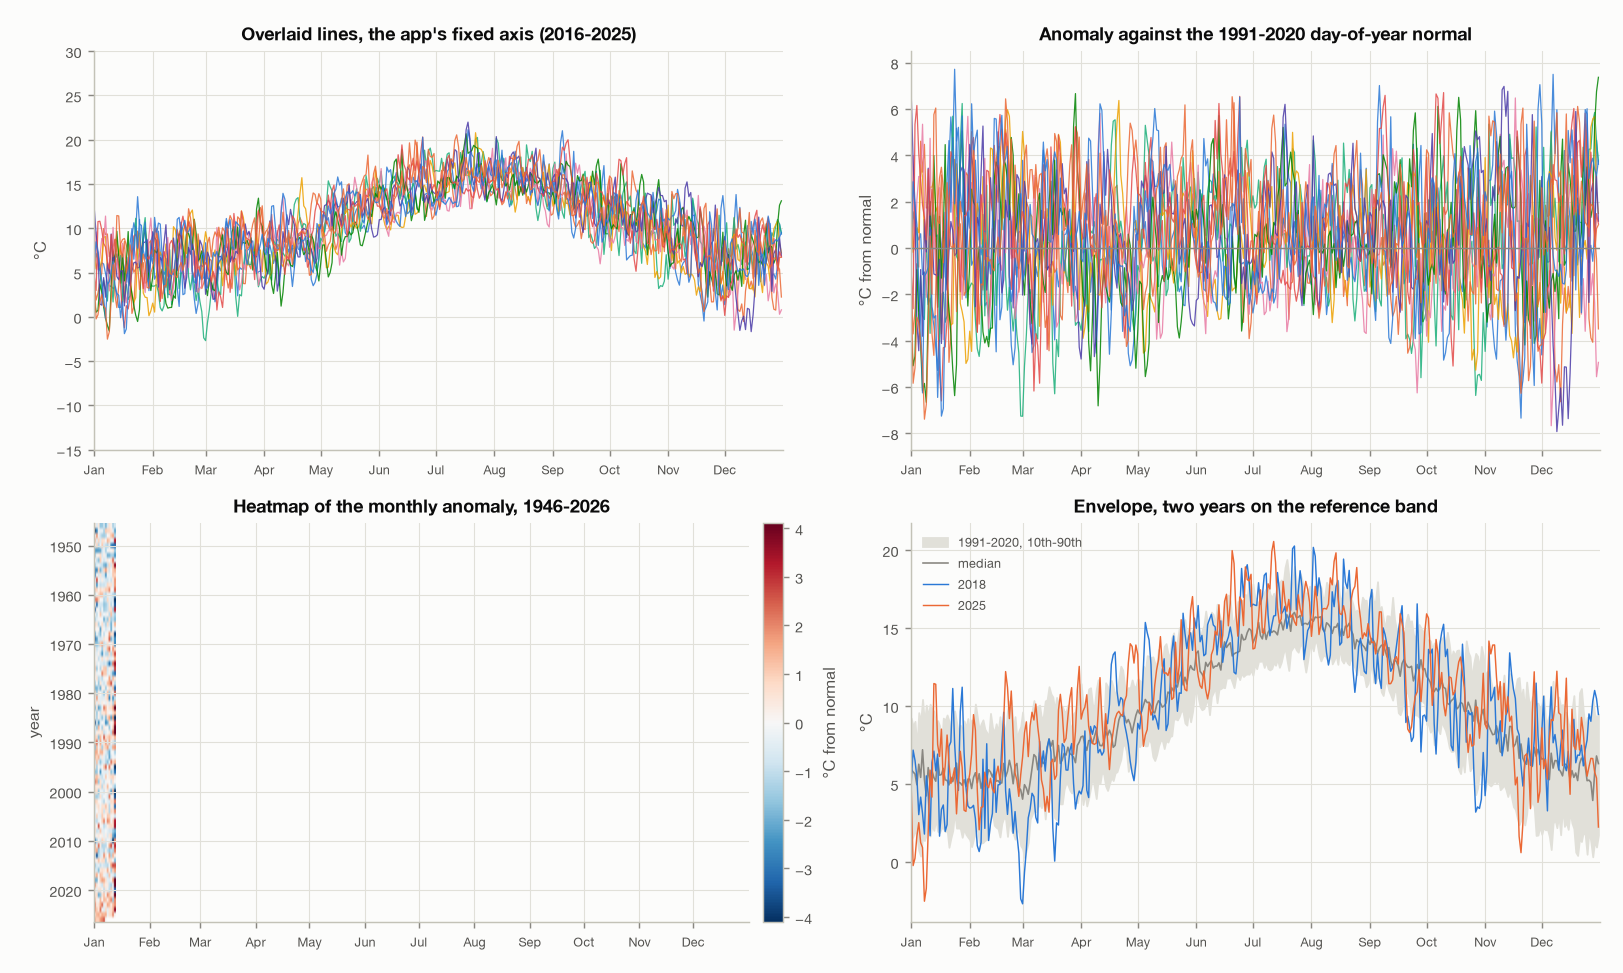
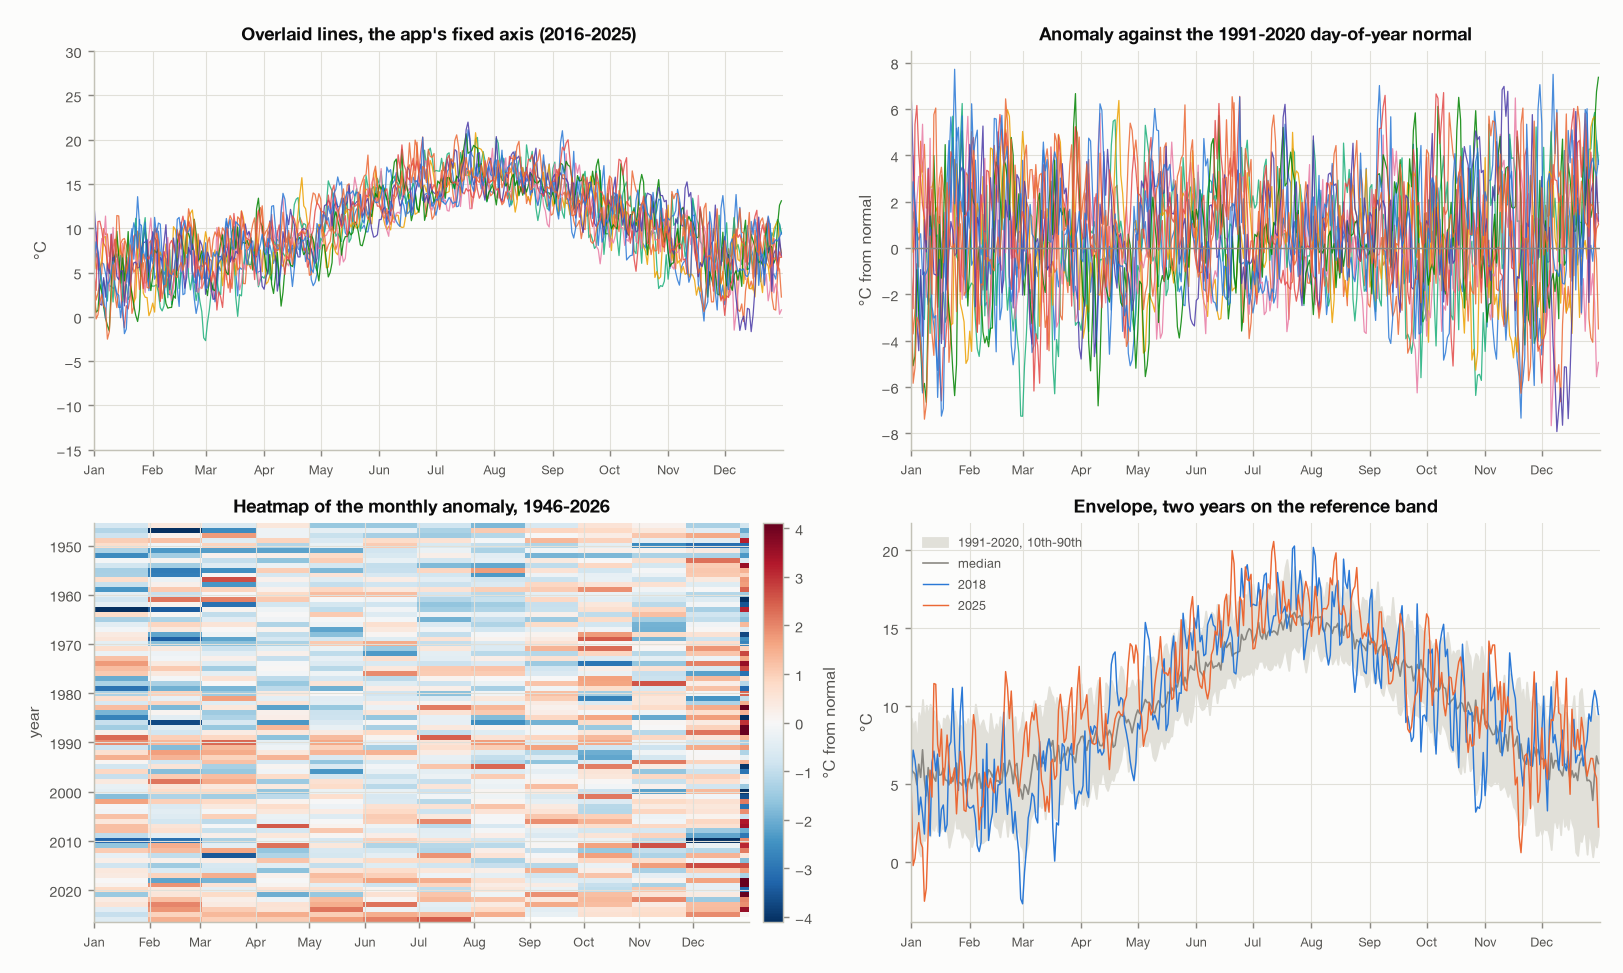
Sixth pass: the lead figure was broken and nobody had looked (20260912 20:48 UTC)
Two reviewers. One checked the fifth pass's fifteen fixes and found all
fifteen correct; its one hit was that RESUME.md still carried the framing
section 4 had just retired. The other read the document cold and opened
the figures, which no previous pass had done.

- The lead figure's heatmap panel drew eighty years into the first 3.5%
  of its width and left the rest blank. imshow got an extent in bucket
  indices, then a shared formatting loop set xlim to day-of-year on all
  four panels. Four passes cited this figure; none opened it.
- "Temperature has the second lowest swap rate of the seven. Every other
  variable tangles at least as much." Mean sea level pressure is lower,
  at 18.4% against 25.8%, so the second sentence contradicts the first
  using the numbers printed three lines above.
- "a resolution its own README tells people not to use for a wide
  selection." The README says daily to weekly is the useful range, so
  daily is the fine end of what it recommends. The generator's docstring
  quoted the README correctly and then drew the opposite conclusion in
  the same sentence.
- "Variables covered: all 13", as a plain structural fact, for three
  forms that cannot cover wind direction. It is circular, meta.json says
  so, and a day-of-year normal or a percentile band on degrees needs
  circular statistics nothing here implements. Now 12 of 13 for the
  anomaly, the heatmap and the envelope.
- The caption said four ways of drawing the same ten years; the panels
[…]

Changed region(s): [[0.0616, 0.5242, 0.4621, 0.9558]]

diff --git a/EDA/scripts/check_forms_numbers.py b/EDA/scripts/check_forms_numbers.py
@@ -27,9 +27,17 @@ review pass, which found three of them wrong at once - a "less than 0.2 points"
 that was 1.020 for sunshine, a "share of the area" that was 1/N rather than an
 area, and a spread that fell 32% and was written as 31%.
 
-Five adversarial review passes over this document have found numbers left stale
-by corrections applied in one place and not another, four separate times. That is
-the failure this exists to catch.
+Six adversarial review passes over this document have found numbers left stale by
+corrections applied in one place and not another, five separate times. That is the
+failure this exists to catch.
+
+What it cannot catch, stated so nobody reads a pass here as a clean bill: it reads
+CSVs and the markdown, never `src/`. Every claim the document makes about the app
+- that `VariableMeta` carries one range, that `axisFor` builds from two fields,
+that `AppState` has no mode, that `Series` has no band - is checked by hand or not
+at all. The same goes for the figures, whose axes it never looks at; the sixth
+pass found the lead figure had been drawing its heatmap panel into 3.5% of its
+width, and nothing here would have noticed.
 
 Run it after any edit to the document or to `eda_forms.py`.
 """
@@ -152,7 +160,13 @@ eq("band min", bw.iloc[0]["min_width_c"], 2.88)
 eq("band max", bw.iloc[0]["max_width_c"], 10.10)
 
 env = pd.read_csv(S / "04-envelope-escape.csv", index_col=0)
-for y, d, pct in ((2025, 96, 26.3), (2018, 93, 25.5), (2010, 119, 32.6), (1963, 101, 27.7)):
+doc_env = ((2025, 96, 26.3), (2018, 93, 25.5), (2010, 119, 32.6),
+           (1995, 102, 27.9), (1963, 101, 27.7))
+checks += 1
+if set(env.index) != {y for y, _, _ in doc_env}:
+    fails.append(f"envelope: CSV holds {sorted(env.index)}, the table prints "
+                 f"{sorted(y for y, _, _ in doc_env)}")
+for y, d, pct in (r for r in doc_env if r[0] in env.index):
     eq(f"envelope {y} days", env.loc[y, "days_outside_10_90"], d, 0.5)
     eq(f"envelope {y} pct", env.loc[y, "pct_outside"], pct, 0.05)
 
@@ -225,7 +239,33 @@ for k in ("temp", "rhum", "msl", "wdsp", "vis"):
     under(f"ties gap {k}", gap[k], 0.2)
 says("ties gap others in prose", "less than 0.2 points")
 
-res = pd.read_csv(S / "04-resolution.csv", index_col=0)
+# Ordinal claims. The prose ranks variables against each other and nothing
+# sorted anything, so "second lowest" was only ever true by inspection.
+order = var["pct_days_pair_swaps"].sort_values()
+checks += 1
+if list(order.index[:2]) != ["msl", "temp"]:
+    fails.append(f"swap order: doc says temp is second lowest after msl, CSV ranks {list(order.index[:2])}")
+says("temp second lowest in prose", "second *lowest*")
+says("msl named as the one below it", "only mean sea\nlevel pressure tangles less, at 18.4%")
+eq("msl swap rate", var.loc["msl", "pct_days_pair_swaps"], 18.4, 0.05)
+
+tied = var["pct_days_tied"].sort_values(ascending=False)
+checks += 1
+if list(tied.index[:2]) != ["rain", "sun"]:
+    fails.append(f"tied order: doc says sun is second after rain, CSV ranks {list(tied.index[:2])}")
+
+# Roughness sits below separation at every year count, not the two once quoted.
+for y in occ.index:
+    under(f"roughness under separation n={y}", occ.loc[y, "roughness_over_separation"], 1.0)
+
+eq("axis cost ratio 2.9x",
+   ax.iloc[2]["separation_pct_of_axis"] / ax.iloc[0]["separation_pct_of_axis"], 2.9, 0.05)
+says("2.9x in section 2", "2.9 times\nthe plot height")
+says("2.9x restated in the table", "**yes, 2.9\u00d7**")
+
+eq("points per pixel at 30 years", 365 / sm.loc[30, "panel_width_px"], 1.8, 0.05)
+says("points per pixel in prose", "1.8 points per pixel")
+
 daily, weekly = res.loc["1 day"], res.loc["1 week"]
 eq("spread fall daily to weekly",
    100 * (daily["cross_year_sd_c"] - weekly["cross_year_sd_c"]) / daily["cross_year_sd_c"], 32, 0.5)

diff --git a/EDA/scripts/eda_forms.py b/EDA/scripts/eda_forms.py
@@ -53,6 +53,8 @@ DEMO_YEARS = (2016, 2025)
 
 # A representative wide plot. Used only to turn a count of cells into a cell
 # size, so the heatmap's claim is about pixels and not about arithmetic.
+# Days per column in the four-way figure's monthly heatmap.
+BUCKET_DAYS = 30
 PLOT_WIDTH_PX = 1200
 PLOT_HEIGHT_PX = 520
 
@@ -393,12 +395,12 @@ def table_resolution(day: pd.DataFrame) -> pd.DataFrame:
     """Does the app's own detail slider already fix this?
 
     Every other measurement here is at one point per day. The app can resample
-    down to one point per week, and its README says daily to weekly is the
-    useful range for a wide selection, so measuring only at daily would judge
-    the line chart at a resolution its own documentation tells people not to use
-    for the case in question. If coarser steps drop the swap rate far enough,
-    the slider is already most of the answer and the argument for a new chart
-    form is correspondingly weaker.
+    down to one point per week, and its README calls daily to weekly the useful
+    range for a wide selection, so daily is the fine end of what it recommends
+    rather than something it warns against. Measuring only there still judges
+    the line chart at one end of its range. If coarser steps drop the swap rate
+    far enough, the slider is already most of the answer and the argument for a
+    new chart form is correspondingly weaker.
     """
     lo, hi = DEMO_YEARS[1] - 9, DEMO_YEARS[1]
     rows = []
@@ -793,13 +795,18 @@ def fig_forms(day: pd.DataFrame) -> None:
     first_complete = int(day.groupby("year")["mean"].count().pipe(
         lambda c: c.loc[c >= 350]).index.min())
     wide = work.loc[work["year"] >= first_complete].copy()
-    wide["bucket"] = (wide["doy"] - 1) // 30
+    wide["bucket"] = (wide["doy"] - 1) // BUCKET_DAYS
     wide = wide.pivot_table(index="year", columns="bucket", values="anomaly",
                             aggfunc="mean")
     limit = float(np.nanpercentile(np.abs(wide.to_numpy()), 99))
+    # The x extent is in days, not bucket indices. Every panel in this figure
+    # shares a day-of-year axis and the formatting loop below sets xlim to
+    # (1, 366) for all four; an extent of (0, n_buckets) put this panel's whole
+    # eighty years inside the first 3.5% of its width and left the rest blank.
     im = ax.imshow(wide.to_numpy(), aspect="auto", cmap="RdBu_r",
                    vmin=-limit, vmax=limit,
-                   extent=(0, wide.shape[1], float(wide.index.max()) + 0.5,
+                   extent=(1, 1 + BUCKET_DAYS * wide.shape[1],
+                           float(wide.index.max()) + 0.5,
                            float(wide.index.min()) - 0.5))
     ax.set_title("Heatmap of the monthly anomaly, "
                  f"{int(wide.index.min())}-{int(wide.index.max())}",

diff --git a/EDA/04-chart-forms.md b/EDA/04-chart-forms.md
@@ -14,7 +14,13 @@ Every number below comes from a CSV in `EDA/stats/`. Regenerate all of it with:
 uv run EDA/scripts/eda_report.py --section forms
 ```
 
-![The same ten years drawn four ways](figures/04-forms.png)
+![Four forms, each at the year count it is for](figures/04-forms.png)
+
+The panels deliberately do not share a year count: ten years overlaid and as
+anomalies, the whole archive as a heatmap, and two years on a band. Each form is
+drawn at the count it is meant for, because drawing the heatmap at ten years or
+the envelope at eighty would show the form failing at a job nobody proposes for
+it.
 
 **Where the six come from.** Four were put to the user as the next chart. Two
 more, **small multiples** and **a sequential colour ramp above roughly 24 years**,
@@ -58,7 +64,7 @@ Separation is a range, a maximum minus a minimum, and every window here is a
 superset of the one before it, so it can only climb as years are added. That
 climb is arithmetic and not a finding, which is why spread sits beside it: a
 standard deviation across years has no such property. It rises from 1.51 °C at
-two years to 2.43 °C at twenty and then stops; at thirty it is 2.40 °C.
+two years, peaks at 2.43 °C at twenty, and eases back to 2.40 °C at thirty.
 
 **Resolution is a real problem.** The app's fixed axis spans 45 °C, so a ten-year
 selection's 7.22 °C of separation fills 16.0% of the plot height. An axis fitted
@@ -111,7 +117,8 @@ argument about which problem it solves.
 
 Every measurement above is at one point per day, and the app can resample to one
 per week. Judging the line chart only at daily would test it at a resolution its
-own README tells people not to use for a wide selection. From
+own README calls the fine end of the useful range for a wide selection, rather
+than one it warns against. From
 `EDA/stats/04-resolution.csv`, ten years:
 
 | Step | Points per year | Spread | Swap rate | Crossings per pair per year |
@@ -148,8 +155,9 @@ Nor does the variable. From `EDA/stats/04-variables.csv`, ten years, daily:
 | Sunshine duration | sum | 42.9% | 41.9% | 2.4% |
 
 Temperature, which everything else here is measured on, has the second *lowest*
-swap rate of the seven. Every other variable tangles at least as much, so
-choosing temperature flattered the line chart rather than the alternatives.
+swap rate of the seven. Five of the other six tangle more, and only mean sea
+level pressure tangles less, at 18.4%. So choosing temperature flattered the line
+chart against most of the alternatives, though not against all of them.
 
 Rain needs the two columns. On 18.5% of its day-pairs both years record exactly
 nothing, and "which is on top" is then undefined. Dropping those days and
@@ -329,6 +337,7 @@ From `EDA/stats/04-band-width.csv` and `EDA/stats/04-envelope-escape.csv`:
 | Days outside the band, 2025 | 96 of 365 (26.3%) |
 | Days outside the band, 2018 | 93 of 365 (25.5%) |
 | Days outside the band, 2010 | 119 of 365 (32.6%) |
+| Days outside the band, 1995 | 102 of 365 (27.9%) |
 | Days outside the band, 1963 | 101 of 365 (27.7%) |
 
 A typical year spends a quarter to a third of its days outside the band, so the
@@ -381,7 +390,7 @@ opinion the same weight hides which is which.
 | Fixes resolution | **yes, 2.9×** | *judgement: yes* | not applicable | no | not argued below | *judgement: yes* |
 | Fixes occlusion | **no, measured identical** | yes, by construction | yes, by construction | no | *judgement: yes, with 1-2 years drawn* | **partly, 3.4 swaps** |
 | Years it works at | *judgement: 2-5* | *judgement: 5-15, 30 for shape only* | *judgement: 30-80* | *judgement: 24+* | *judgement: 1-2 over a band* | not measured |
-| Variables covered | all 13 | all 13 | all 13 | all 13 | all 13 | **2 of 13** |
+| Variables covered | 12 of 13 | all 13 | 12 of 13 | all 13 | 12 of 13 | **2 of 13** |
 | Exact values readable | yes | *judgement: yes to about 15 years, shape only past that* | no | yes | yes | yes |
 | Needs a change to `ChartView` | no | yes, multi-grid | yes, a matrix | no | yes, a band series | no |
 | Keeps zoom, detail, opacity | all three | *judgement: all three* | *judgement: none of the three* | all three | *judgement: all three* | *judgement: zoom only; detail becomes moot* |
@@ -392,6 +401,16 @@ Build cost is the row to be most sceptical of: nothing here measures it. Two
 parts of the recommendation lean on it — taking the anomaly when the budget is
 smallest, and building small multiples before the heatmap — while the choice
 between those two is explicitly *not* made on cost. Section 4 says why.
+
+Wind direction is the thirteenth variable, and it is the one that makes three
+cells read "12 of 13". It is circular: `meta.json` types it `circular` and
+`src/data/types.ts` says why, since a mean of 350° and 10° is 0° and not 180°.
+Any form that subtracts a day-of-year normal or takes a percentile needs circular
+statistics for it, which nothing in this project implements and nothing here
+costs. That rules out the anomaly, the heatmap built on it, and the envelope's
+band until someone writes them. The forms that only redraw or recolour the raw
+series, small multiples and the sequential ramp, are untouched by this and really
+do cover all thirteen.
 
 The `ChartView` row is narrower than it looks. It asks only whether the adapter
 contract changes shape, which is why the anomaly and the cumulative form both
